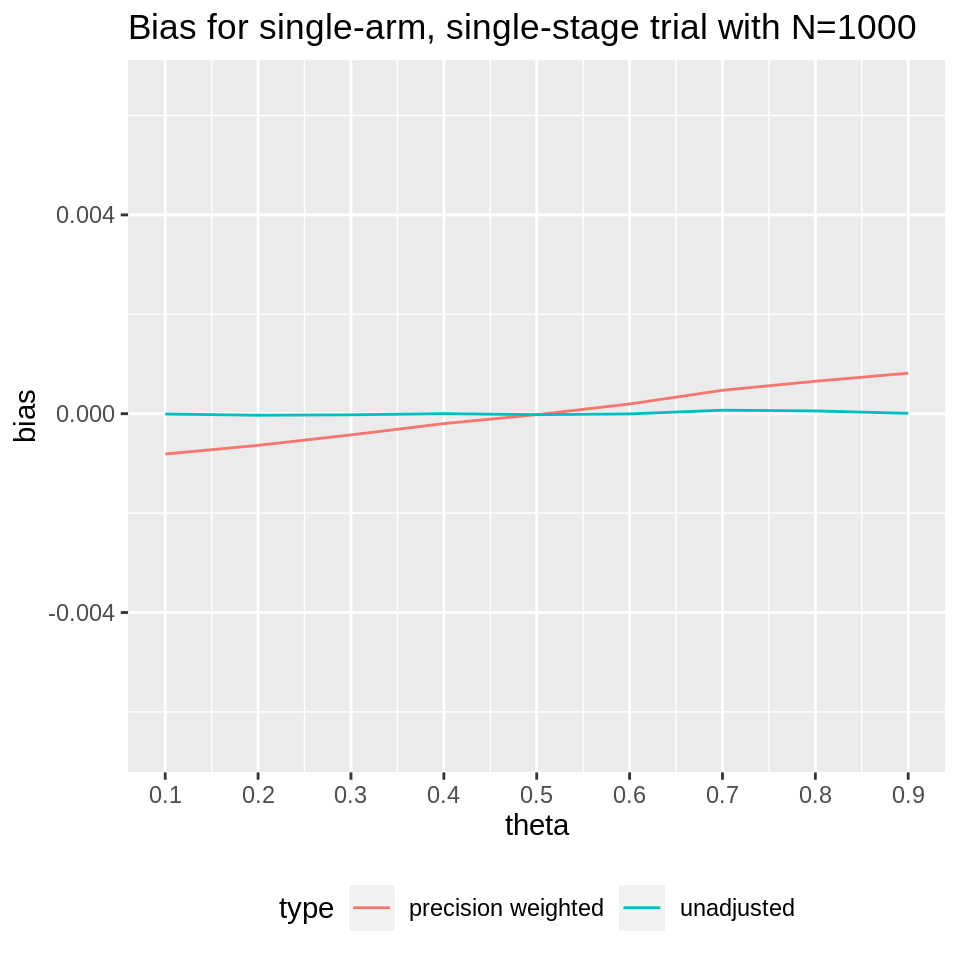
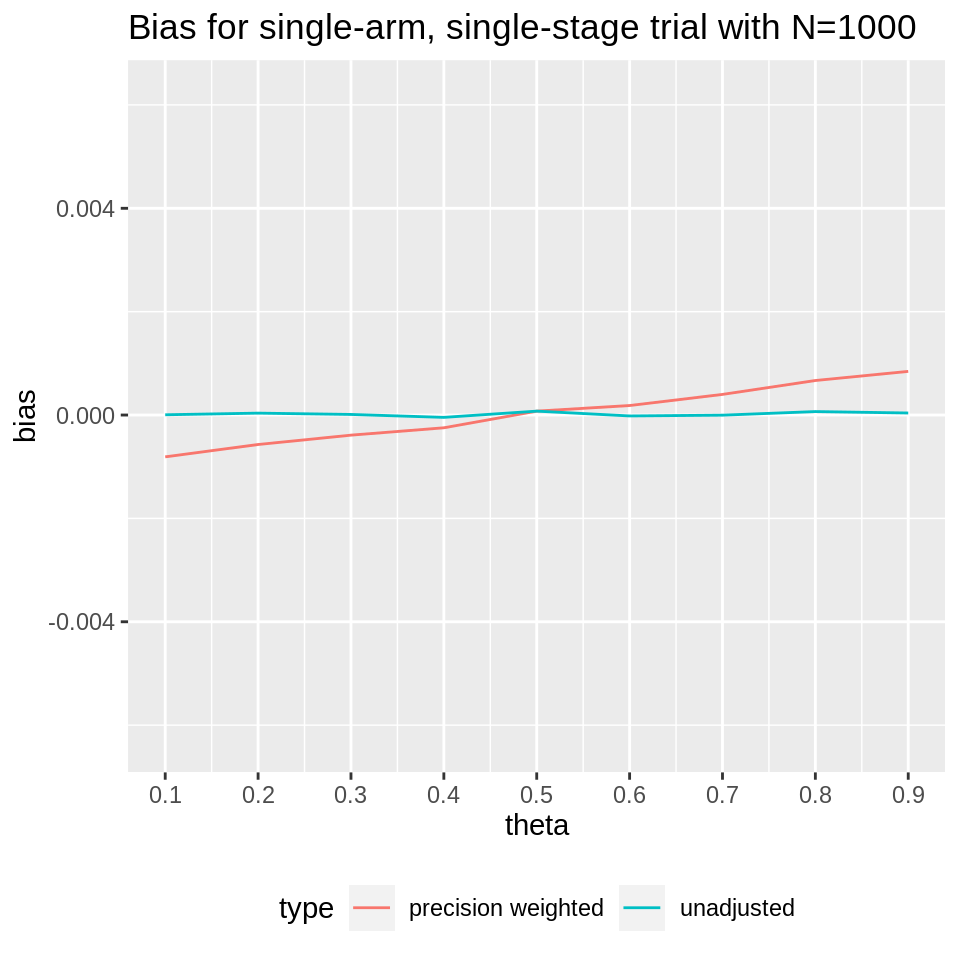
Built site for pwb: 0.0.0.9000@f1299d2

diff --git a/articles/MA_simon.html b/articles/MA_simon.html
@@ -89,14 +89,15 @@
 <span class="va">simon.des</span> <span class="op">&lt;-</span> <span class="va">all.designs</span><span class="op">$</span><span class="va">out</span><span class="op">[</span><span class="va">opt.index</span>, <span class="op">]</span></code></pre></div>
 <p>Now simulate meta-analyses of a single Simon design and some number of single-arm single-stage trials with the same maximum sample size <em>N</em> as the Simon design. We also choose the true response probability theta.</p>
 <div class="sourceCode" id="cb3"><pre class="downlit sourceCode r">
-<code class="sourceCode R"><span class="va">ma.simon.results</span> <span class="op">&lt;-</span> <span class="fu"><a href="../reference/maSimon.html">maSimon</a></span><span class="op">(</span>theta<span class="op">=</span><span class="fl">0.5</span>,
+<code class="sourceCode R"><span class="fu"><a href="https://rdrr.io/r/base/Random.html" class="external-link">set.seed</a></span><span class="op">(</span><span class="fl">1453</span><span class="op">)</span>
+<span class="va">ma.simon.results</span> <span class="op">&lt;-</span> <span class="fu"><a href="../reference/maSimon.html">maSimon</a></span><span class="op">(</span>theta<span class="op">=</span><span class="fl">0.5</span>,
                             des<span class="op">=</span><span class="va">simon.des</span>,
                             nsims<span class="op">=</span><span class="fl">1e4</span>,
                             n.studies<span class="op">=</span><span class="fl">4</span><span class="op">)</span>
 <span class="va">ma.simon.results</span>
 <span class="co">#&gt;                        reps mean.studies          bias    mean.se theta</span>
-<span class="co">#&gt; All trials            10000       5.0000 -0.0004961679 0.01513145   0.5</span>
-<span class="co">#&gt; Exclude early stopped 10000       4.3086  0.0012482974 0.01572963   0.5</span>
+<span class="co">#&gt; All trials            10000       5.0000 -0.0002368025 0.01540445   0.5</span>
+<span class="co">#&gt; Exclude early stopped 10000       4.3067  0.0015904926 0.01601703   0.5</span>
 <span class="co">#&gt;                                        type</span>
 <span class="co">#&gt; All trials                       All trials</span>
 <span class="co">#&gt; Exclude early stopped Exclude early stopped</span></code></pre></div>
@@ -112,7 +113,7 @@
   <span class="op">}</span>
 
 <span class="va">ma.simon.results0</span> <span class="op">&lt;-</span> <span class="fu"><a href="https://rdrr.io/r/base/do.call.html" class="external-link">do.call</a></span><span class="op">(</span><span class="va">rbind</span>, <span class="va">ma.simon.results0</span><span class="op">)</span></code></pre></div>
-<p><img src="MA_simon_files/figure-html/simon%20MA%20plot-1.png" width="576"></p>
+<p><img src="figures/simon_MA_p05-1.png" width="384"></p>
 <div class="section level3">
 <h3 id="moving-away-from-theta0-5">Moving away from theta=0.5<a class="anchor" aria-label="anchor" href="#moving-away-from-theta0-5"></a>
 </h3>
@@ -142,10 +143,10 @@
   <span class="op">}</span>
 
 <span class="va">ma.simon.results2</span> <span class="op">&lt;-</span> <span class="fu"><a href="https://rdrr.io/r/base/do.call.html" class="external-link">do.call</a></span><span class="op">(</span><span class="va">rbind</span>, <span class="va">ma.simon.results2</span><span class="op">)</span></code></pre></div>
-<p><img src="MA_simon_files/figure-html/simon%20plot%202-1.png" width="576"></p>
+<p><img src="figures/simon_MA_p08-1.png" width="384"></p>
 </div>
 <div class="section level3">
-<h3 id="p00-1">p0=0.1<a class="anchor" aria-label="anchor" href="#p00-1"></a>
+<h3 id="p00-2">p0=0.2<a class="anchor" aria-label="anchor" href="#p00-2"></a>
 </h3>
 <p>Obtain a Simon design for p0=0.2, p1=0.3:</p>
 <div class="sourceCode" id="cb7"><pre class="downlit sourceCode r">
@@ -168,8 +169,12 @@
                                     n.studies<span class="op">=</span><span class="fl">4</span><span class="op">)</span>
   <span class="op">}</span>
 
-<span class="va">ma.simon.results3</span> <span class="op">&lt;-</span> <span class="fu"><a href="https://rdrr.io/r/base/do.call.html" class="external-link">do.call</a></span><span class="op">(</span><span class="va">rbind</span>, <span class="va">ma.simon.results3</span><span class="op">)</span></code></pre></div>
-<p><img src="MA_simon_files/figure-html/simon%20plot%20low-1.png" width="576"></p>
+<span class="va">ma.simon.results3</span> <span class="op">&lt;-</span> <span class="fu"><a href="https://rdrr.io/r/base/do.call.html" class="external-link">do.call</a></span><span class="op">(</span><span class="va">rbind</span>, <span class="va">ma.simon.results3</span><span class="op">)</span>
+
+<span class="co"># Biggest improvement in bias:</span>
+<span class="fu"><a href="https://rdrr.io/r/base/Extremes.html" class="external-link">max</a></span><span class="op">(</span><span class="fu"><a href="https://rdrr.io/r/base/MathFun.html" class="external-link">abs</a></span><span class="op">(</span><span class="va">ma.simon.results3</span><span class="op">$</span><span class="va">bias</span><span class="op">[</span><span class="va">ma.simon.results3</span><span class="op">$</span><span class="va">type</span><span class="op">==</span><span class="st">"All trials"</span><span class="op">]</span><span class="op">)</span><span class="op">-</span><span class="fu"><a href="https://rdrr.io/r/base/MathFun.html" class="external-link">abs</a></span><span class="op">(</span><span class="va">ma.simon.results3</span><span class="op">$</span><span class="va">bias</span><span class="op">[</span><span class="va">ma.simon.results3</span><span class="op">$</span><span class="va">type</span><span class="op">==</span><span class="st">"Exclude early stopped"</span><span class="op">]</span><span class="op">)</span><span class="op">)</span>
+<span class="co">#&gt; [1] 0.002002201</span></code></pre></div>
+<p><img src="figures/simon_MA_p02-1.png" width="384"></p>
 </div>
   </main>
 </div>

diff --git a/articles/GS.html b/articles/GS.html
@@ -101,10 +101,10 @@
                      nsims<span class="op">=</span><span class="va">nsims</span><span class="op">)</span>
   <span class="va">single.GS</span><span class="op">$</span><span class="va">ests</span><span class="op">[</span>, <span class="fl">1</span><span class="op">:</span><span class="fl">5</span><span class="op">]</span>
 <span class="co">#&gt;                          nsims    bias mean.SE emp.SE theta</span>
-<span class="co">#&gt; Stopped early            39319 -0.0452  0.0455 0.0275   0.5</span>
-<span class="co">#&gt; Complete                 60681  0.0246  0.0421 0.0299   0.5</span>
-<span class="co">#&gt; All                     100000 -0.0029  0.0435 0.0447   0.5</span>
-<span class="co">#&gt; All (precision-weghted) 100000 -0.0002  0.0433     NA   0.5</span>
+<span class="co">#&gt; Stopped early            39430 -0.0452  0.0455 0.0274   0.5</span>
+<span class="co">#&gt; Complete                 60570  0.0250  0.0421 0.0300   0.5</span>
+<span class="co">#&gt; All                     100000 -0.0027  0.0435 0.0449   0.5</span>
+<span class="co">#&gt; All (precision-weghted) 100000  0.0000  0.0433     NA   0.5</span>
   <span class="fu"><a href="https://rdrr.io/r/base/Round.html" class="external-link">round</a></span><span class="op">(</span><span class="va">single.GS</span><span class="op">$</span><span class="va">mc.error</span>, <span class="fl">5</span><span class="op">)</span>
 <span class="co">#&gt; [1] 0.00014 0.00010</span></code></pre></div>
 <p>How does bias compare when the true response probability is varied? Find results for a vector of true response probabilities:</p>
@@ -122,8 +122,8 @@
 
 <span class="va">all.gs</span> <span class="op">&lt;-</span> <span class="fu"><a href="https://rdrr.io/r/base/do.call.html" class="external-link">do.call</a></span><span class="op">(</span><span class="va">rbind</span>, <span class="va">summary.data</span><span class="op">)</span></code></pre></div>
 <p>Plot the results for all theta values:</p>
-<p><img src="GS_files/figure-html/GS%20plot-1.png" width="576"></p>
-<p>Plot the same results, but removing the subsets “stopped early” or “stopped at N”: <img src="GS_files/figure-html/GS%20plot%20subset-1.png" width="576"></p>
+<p><img src="figures/GS-1.png" width="576"></p>
+<p>Plot the same results, but removing the subsets “stopped early” or “stopped at N”: <img src="figures/GS_subset-1.png" width="576"></p>
   </main>
 </div>
 
